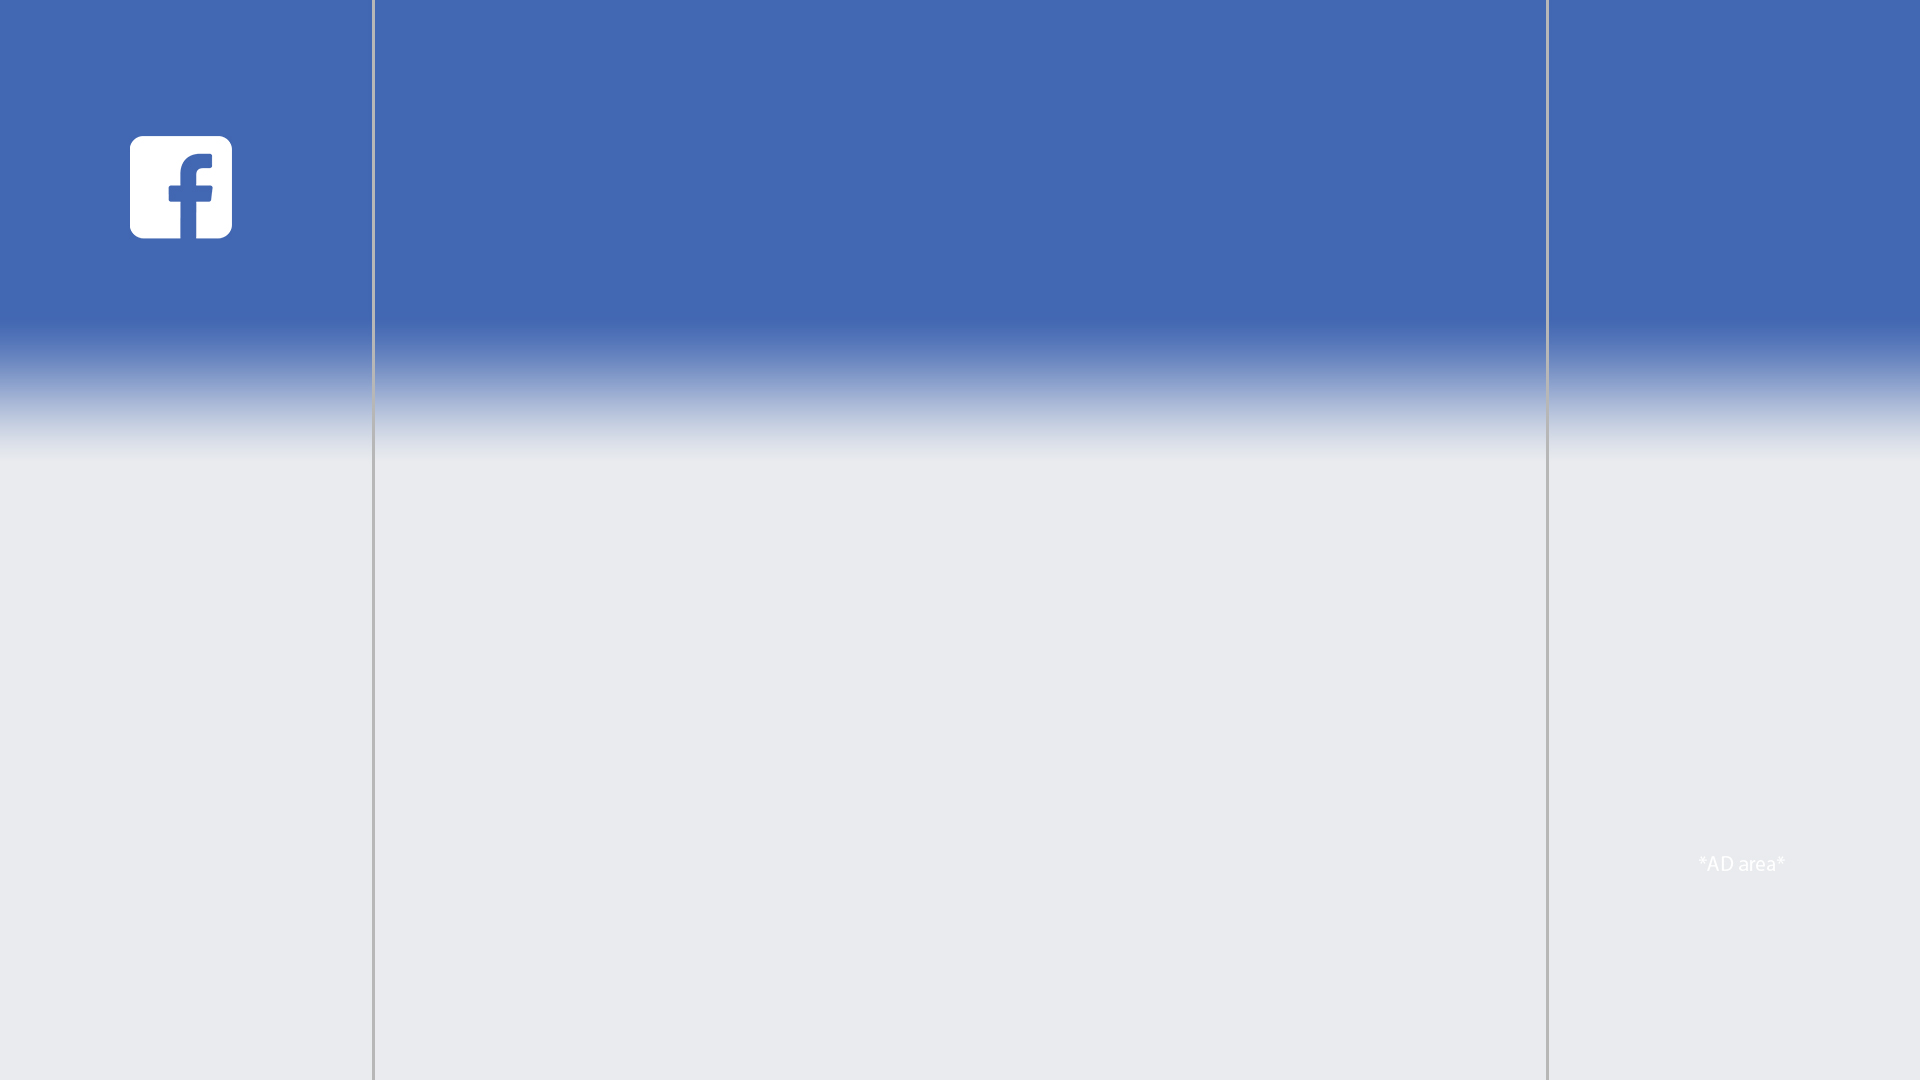
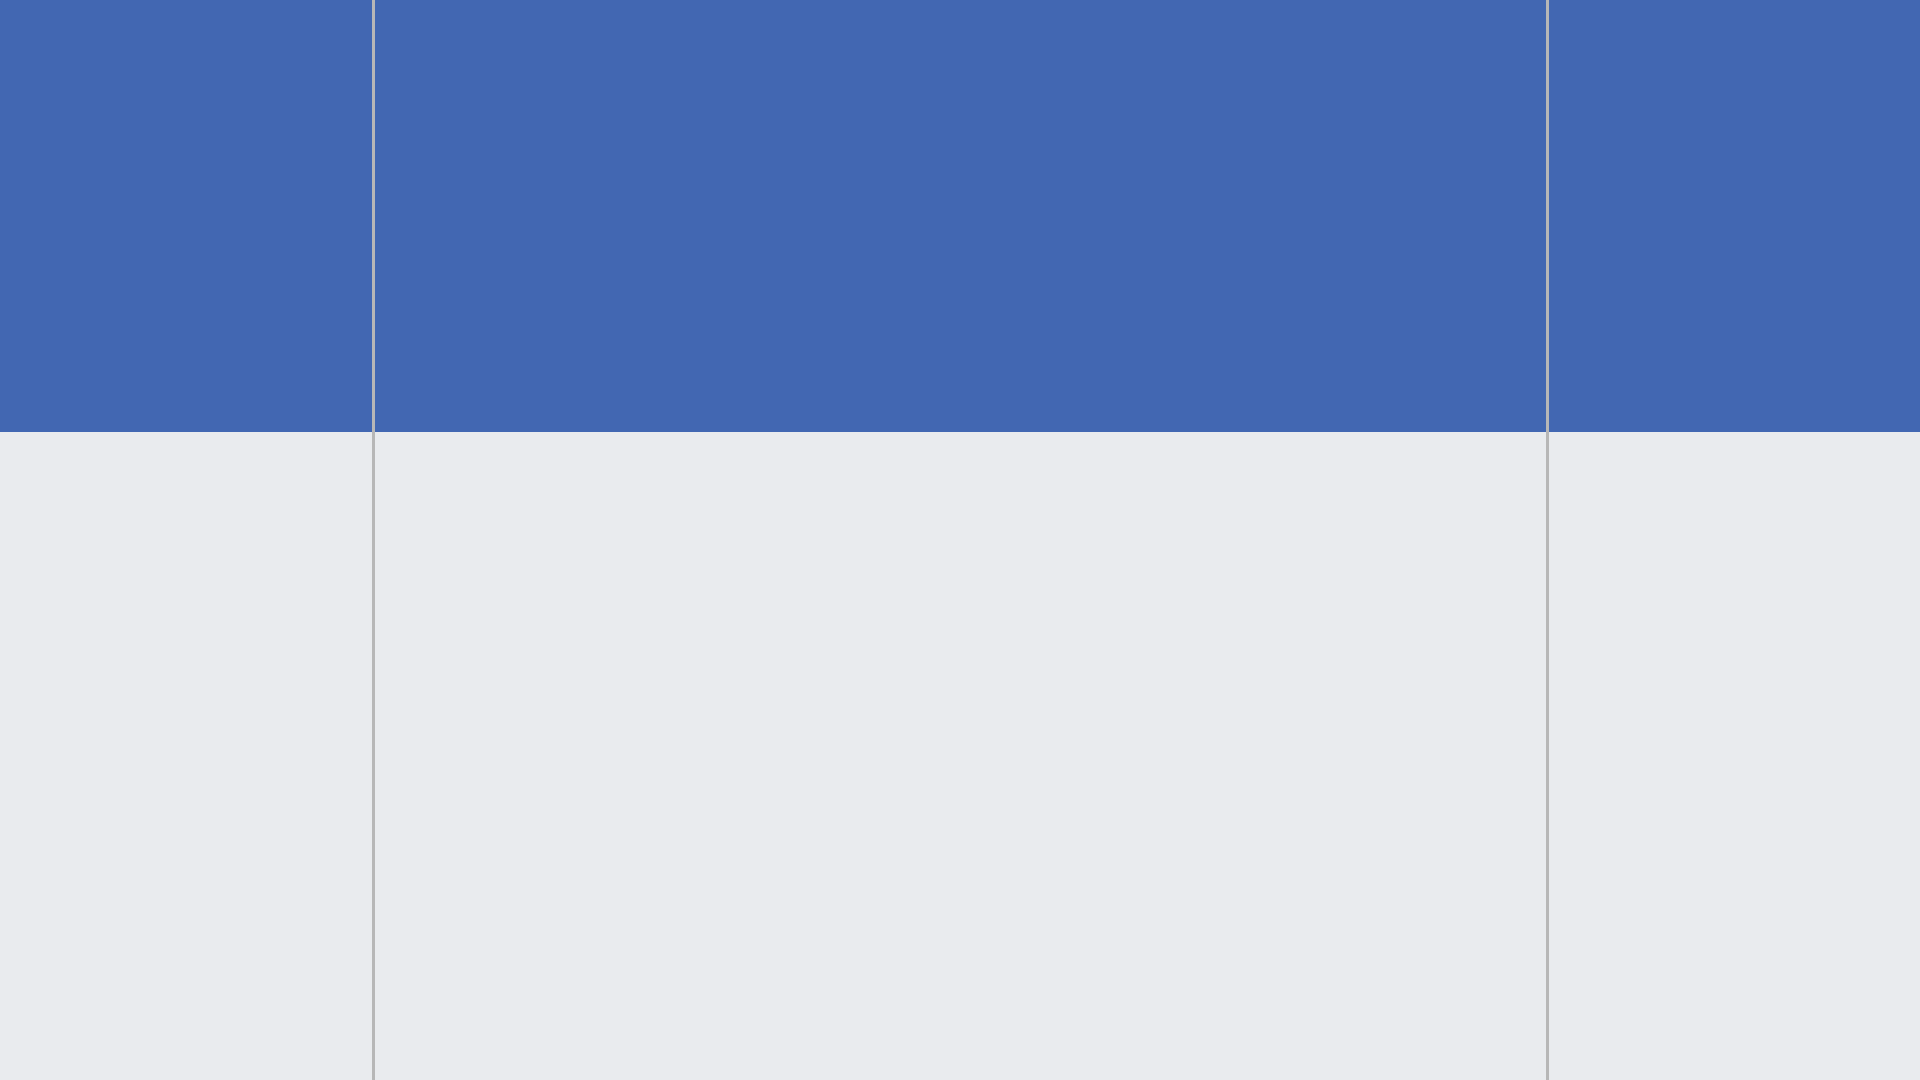
complete facebook UI before final change

Changed region(s): [[0.0, 0.3056, 1.0, 0.4278], [0.0625, 0.1222, 0.125, 0.2444]]

diff --git a/facebook/StylesBs.css b/facebook/StylesBs.css
@@ -70,7 +70,7 @@ body{
     width: 35px;
 }
 .coverPictureDiv{
-	height: 385px;
+	height: 430px;
     width: 1168px;
     position: absolute;
     left: 376px;
